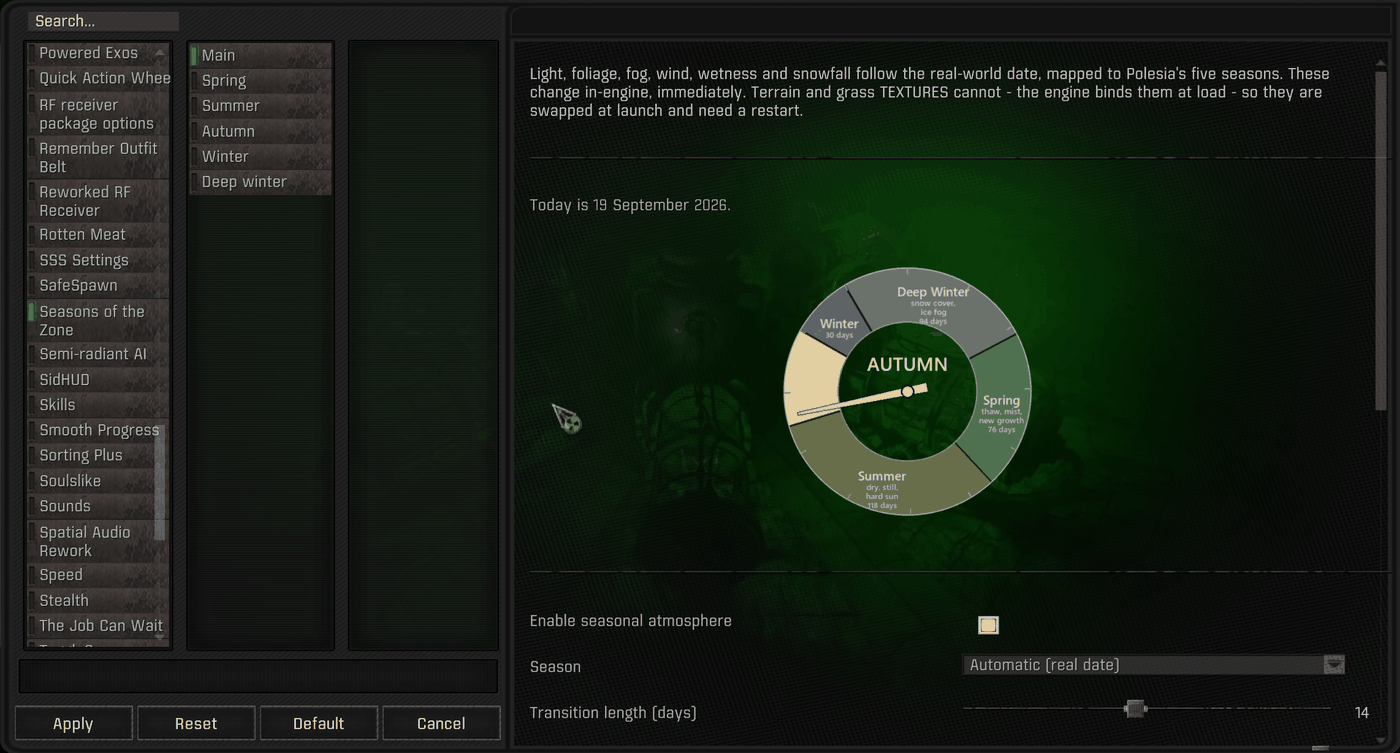
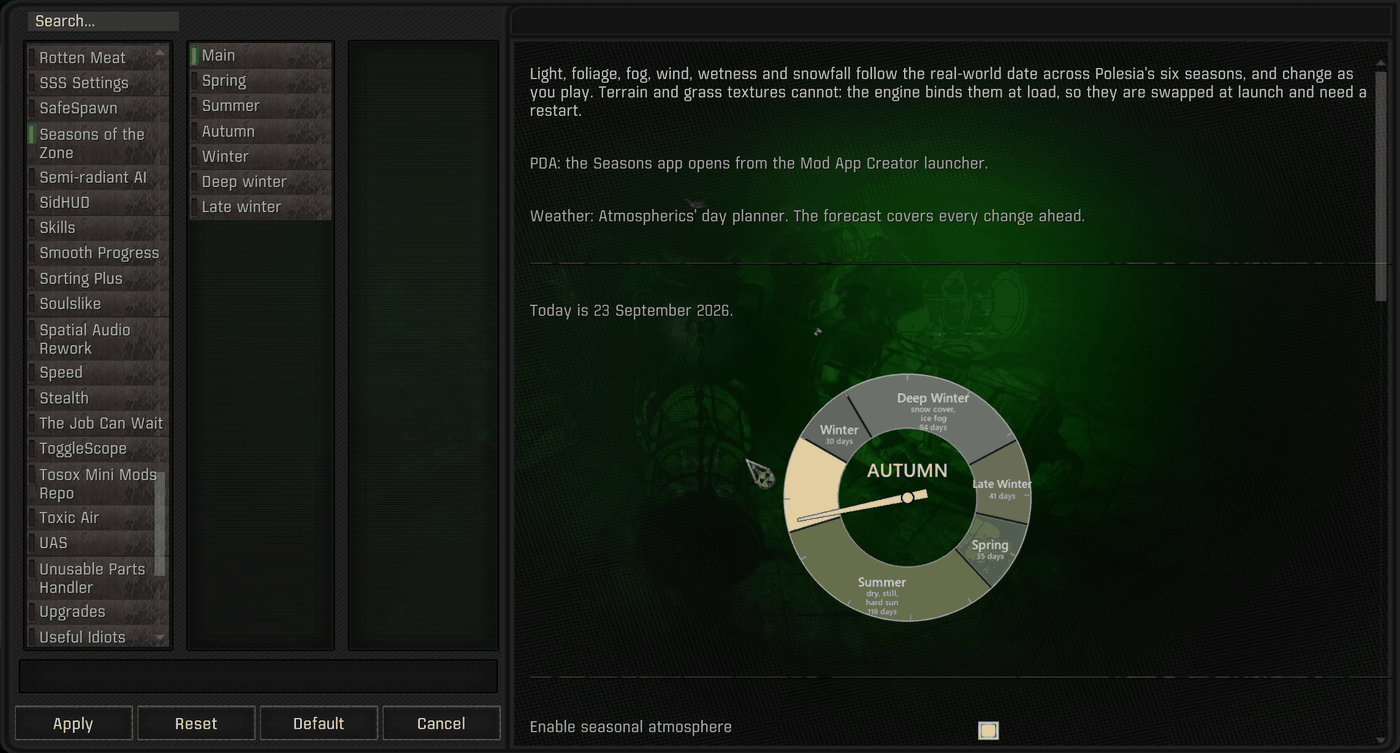
Release 1.8.3
MCM's Main page loaded Atmospherics' level_weathers while MCM was still
building its menus. That load fails, so the page said no weather manager was
found and the log gained "Failed to load script level_weathers". At the main
menu the page now reads the file instead. The units dropdown showed a raw key,
and ("summer,spring") now gets advice to quote each season. The docs show the
MCM pages and The Year with six seasons.

diff --git a/_tools/test_forecast.py b/_tools/test_forecast.py
@@ -8,6 +8,7 @@ Every case below has a negative control - a standing or a manager state that MUS
 produce the tier under test - so a function that returned a constant would be caught.
 """
 import io, sys
+import tempfile
 from lupa import LuaRuntime
 
 import os
@@ -16,6 +17,7 @@ SRC = (os.path.join(os.path.dirname(os.path.dirname(os.path.abspath(__file__))),
        "zzz_seasons_of_the_zone.script"))
 
 HOUR = 3600
+SCRATCH = tempfile.mkdtemp(prefix="sotz_forecast_")
 
 
 def build(standing, surge_left, psi_left, freq=24, psi_freq=48, forecast_on=True,
@@ -23,7 +25,7 @@ def build(standing, surge_left, psi_left, freq=24, psi_freq=48, forecast_on=True
           weather="storm", now_minute=600, have_weather=True, hide_global=False,
           surge_obj_override=None, stock=False, period=6, elapsed_h=1.0,
           in_level=True, planner_globals=None, calls=None, storage=(),
-          occurrence=None, wx_exact=False, tail=None):
+          occurrence=None, wx_exact=False, tail=None, disk=None):
     """A sandbox with the engine bindings the script reaches for.
 
     stock=True builds base Anomaly's weather manager instead of Atmospherics' planner:
@@ -35,9 +37,19 @@ def build(standing, surge_left, psi_left, freq=24, psi_freq=48, forecast_on=True
     was never built from the main menu.
     `tail`, if given, is appended to the script, and whatever it returns is handed back
     as a third value - the way a case reaches the script's file-locals.
+    `disk` is level_weathers.script as MO2 serves it, which is all the main menu reads:
+    its text for a loose copy, None for the base game's packed one, False for none.
     """
     lua = LuaRuntime(unpack_returned_tuples=True)
     g = lua.globals()
+
+    lw_file = os.path.join(SCRATCH, "level_weathers_%d.script" % len(os.listdir(SCRATCH)))
+    if isinstance(disk, str):
+        io.open(lw_file, "w", encoding="utf-8").write(disk)
+    g.getFS = lambda: lua.table_from({
+        "exist": lambda self, alias, name: disk is not False,
+        "update_path": lambda self, alias, name: lw_file,
+    })
 
     # In game, mgr.last_surge_time is a CTime and diffSec(that) returns how long ago it
     # was. Model it as a table carrying its own elapsed value, which is what the real
@@ -513,24 +525,49 @@ def t_stock_window_edges():
     return "window opens at 2/3 of the period, closes at the period, never negative"
 
 
+TRAP = """
+-- Reads of the global level_weathers, counted. In game the first read LOADS the script:
+-- the engine resolves a missing global by loading the file of that name.
+function trap_level_weathers()
+    local stub, touched = rawget(_G, "level_weathers"), {n = 0}
+    rawset(_G, "level_weathers", nil)
+    setmetatable(_G, {__index = function(t, k)
+        if k == "level_weathers" then touched.n = touched.n + 1; return stub end
+    end})
+    return touched
+end
+"""
+
+
 def t_source_from_menu():
-    # MCM is mostly opened from the main menu. There is no actor, and base's getter BUILDS
-    # a manager when none exists - so it must not be called to find out which one this is.
-    for label, kw, want in (
-            ("planner", dict(), "plan"),
-            ("stock", dict(stock=True), "stock"),
-            ("nothing", dict(have_weather=False), "none")):
+    """MCM calls this while it builds its pages, at the main menu. Reading level_weathers
+    there loads it, and Atmospherics 2.69's copy reads MCM as it loads, so the load failed
+    and the page said no weather manager was found. The menu reads the file instead, and
+    must never touch the script, or build a manager, which base's getter does if none
+    exists."""
+    PLANNER = "function record_day_history(weather_type)\nend\n"
+    for label, disk, want in (
+            ("the planner, loose", PLANNER, "plan"),
+            ("another loose copy", "function get_weather_manager()\nend\n", "stock"),
+            ("the base game's, packed", None, "stock"),
+            ("no script at all", False, "none")):
         calls = []
-        _, g = build(standing=0, surge_left=HOUR, psi_left=HOUR, in_level=False,
-                     calls=calls, **kw)
+        lua, g = build(standing=0, surge_left=HOUR, psi_left=HOUR, in_level=False,
+                       calls=calls, disk=disk)
+        lua.execute(TRAP)
+        touched = g.trap_level_weathers()
         got = g.weather_source()
         assert got == want, "%s at the menu read as %r" % (label, got)
+        assert touched.n == 0, "%s: the menu touched level_weathers" % label
         assert calls == [], "%s: built a weather manager from the main menu" % label
-    # the control: in a level the live manager IS read, so the counter above can fire
+    # the control: in a level the live manager IS read, so both counters can fire
     calls = []
-    _, g = build(standing=0, surge_left=HOUR, psi_left=HOUR, stock=True, calls=calls)
+    lua, g = build(standing=0, surge_left=HOUR, psi_left=HOUR, stock=True, calls=calls)
+    lua.execute(TRAP)
+    touched = g.trap_level_weathers()
     assert g.weather_source() == "stock" and calls, "the live read never happened"
-    return "menu tells plan / stock / none apart without ever building a manager"
+    assert touched.n > 0, "the trap never fired, so it proves nothing at the menu"
+    return "menu tells plan / stock / none apart from the file alone"
 
 
 def t_stock_page_text():

diff --git a/_tools/test_mcm_strings.py b/_tools/test_mcm_strings.py
@@ -1,0 +1,120 @@
+"""Every MCM label the mod builds must have a string, or MCM shows the raw key.
+
+The key MCM looks up is built, not written down, so a wrong one looks right in the
+script: a list entry's label is "<option path>_lst_" .. its second field, which makes that
+field a suffix. The units list gave it a full string id there and the dropdown read
+"seasons_zone_main_units_lst_ui_mcm_seasons_zone_units_f" for two releases. This reads
+the shipped MCM script, builds every key the way ui_mcm.script does, and looks each one up
+in the shipped strings.
+
+  python _tools/test_mcm_strings.py
+"""
+import io
+import os
+import re
+import sys
+
+ROOT = os.path.dirname(os.path.dirname(os.path.abspath(__file__)))
+GD = os.path.join(ROOT, "mods", "Seasons of the Zone", "gamedata")
+MCM = os.path.join(GD, "scripts", "zzz_seasons_of_the_zone_mcm.script")
+XML = os.path.join(GD, "configs", "text", "eng", "ui_seasons_of_the_zone.xml")
+
+# widgets MCM draws without a label of their own
+UNLABELLED = {"desc", "line", "image", "slide", "title"}
+
+
+def calls(src):
+    """(page, table text) for every add({...}) with a literal id, and its page function."""
+    pages = [(m.start(), m.group(1)) for m in
+             re.finditer(r"local function page_(\w+)\(", src)]
+    for m in re.finditer(r"add\(\{", src):
+        i, depth = m.end() - 1, 0
+        for j in range(i, len(src)):
+            depth += {"{": 1, "}": -1}.get(src[j], 0)
+            if depth == 0:
+                break
+        body = src[i:j + 1]
+        page = None
+        for pos, name in pages:
+            if pos < m.start():
+                page = name
+        # a literal id only: "mod_" .. m.key is a runtime tick, labeled by the file
+        # season.py generates
+        if re.match(r'\{\s*id\s*=\s*"[^"]+"\s*,', body):
+            yield page, body
+
+
+def keys(src):
+    """(key, what) for every string the MCM pages look up."""
+    out = []
+    for page, body in calls(src):
+        oid = re.match(r'\{\s*id\s*=\s*"([^"]+)"', body).group(1)
+        kind = re.search(r'type\s*=\s*"([^"]+)"', body).group(1)
+        if kind in UNLABELLED:
+            continue
+        hint = re.search(r'hint\s*=\s*"([^"]+)"', body)
+        out.append(("ui_mcm_" + (hint.group(1) if hint else "seasons_zone_" + oid),
+                    "label of %s" % oid))
+        if kind == "list" and "no_str = true" not in body:
+            # only the main page has lists with strings; a season page's path would
+            # carry the season, which this cannot know
+            assert page == "main", "a string list on page_%s - extend this test" % page
+            for value, label in re.findall(r'\{\s*"([^"]*)"\s*,\s*"([^"]*)"\s*\}', body):
+                out.append(("seasons_zone_main_%s_lst_%s" % (oid, label),
+                            "%s entry %r" % (oid, value)))
+    for s in re.findall(r'"([a-z_]+)"', re.search(
+            r"for _, s in ipairs\(\{([^}]*)\}\)", src).group(1)):
+        out.append(("ui_mcm_seasons_zone_page_" + s, "page title %s" % s))
+    out.append(("ui_mcm_seasons_zone_page_main", "page title main"))
+    return out
+
+
+CASES = []
+
+
+def case(fn):
+    CASES.append(fn)
+    return fn
+
+
+def read(p):
+    return io.open(p, encoding="utf-8").read()
+
+
+@case
+def t_every_label_has_a_string():
+    have = set(re.findall(r'<string id="([^"]+)"', read(XML)))
+    want = keys(read(MCM))
+    lists = [k for k, what in want if "_lst_" in k]
+    assert len(lists) >= 9, "found only %d list entries - the parse is broken" % len(lists)
+    missing = ["%s (%s)" % (k, what) for k, what in want if k not in have]
+    assert not missing, "no string for: " + "; ".join(missing)
+    return "%d keys, %d of them list entries, all in the strings" % (len(want), len(lists))
+
+
+@case
+def t_a_full_id_as_a_label_is_caught():
+    """The 1.8.2 units list, rebuilt here: the check has to flag it."""
+    bad = read(MCM).replace('{"fahrenheit", "fahrenheit"}',
+                            '{"fahrenheit", "ui_mcm_seasons_zone_units_f"}')
+    assert bad != read(MCM), "the units list has changed shape - update this case"
+    have = set(re.findall(r'<string id="([^"]+)"', read(XML)))
+    missing = [k for k, _ in keys(bad) if k not in have]
+    assert missing == ["seasons_zone_main_units_lst_ui_mcm_seasons_zone_units_f"], missing
+    return "the old units key is reported"
+
+
+if __name__ == "__main__":
+    print("  checking the MCM strings")
+    bad = 0
+    for fn in CASES:
+        try:
+            print("  PASS  %-34s %s" % (fn.__name__[2:], fn()))
+        except AssertionError as e:
+            bad += 1
+            print("  FAIL  %-34s %s" % (fn.__name__[2:], e))
+        except Exception as e:
+            bad += 1
+            print("  ERROR %-34s %s: %s" % (fn.__name__[2:], type(e).__name__, e))
+    print("\n  %d/%d passed" % (len(CASES) - bad, len(CASES)))
+    sys.exit(1 if bad else 0)

diff --git a/_tools/season.py b/_tools/season.py
@@ -194,7 +194,14 @@ def _validate_config():
                 problems.append(where + " must be a dict with 'seasons' and 'above'")
                 continue
             raw_when = cfg.get("when", cfg.get("seasons"))
-            if isinstance(raw_when, str) or not isinstance(raw_when, (list, tuple)) or not raw_when:
+            if isinstance(raw_when, str) and "," in raw_when:
+                # ("summer,spring") is one name with a comma in it, not two
+                parts = [p.strip() for p in raw_when.split(",") if p.strip()]
+                problems.append(where + ": 'when' is the single name \"%s\". Give each "
+                                "season its own quotes: (%s)"
+                                % (raw_when, ", ".join('"%s"' % p for p in parts)))
+            elif (isinstance(raw_when, str) or not isinstance(raw_when, (list, tuple))
+                    or not raw_when):
                 problems.append(where + ": 'when' must be a tuple of period names - "
                                 "note the trailing comma in a one-element tuple, "
                                 "(\"winter\",) not (\"winter\")")

diff --git a/_tools/test_config_errors.py b/_tools/test_config_errors.py
@@ -84,6 +84,22 @@ def t_a_name_without_quotes_says_to_quote_it():
 
 
 @case
+def t_two_seasons_in_one_string_say_to_split_them():
+    """("summer,spring") is one name with a comma inside. The trailing-comma advice is
+    right for ("winter") and useless here - a user read it and could not find the
+    problem."""
+    cfg = GOOD.replace('("winter", "winter_snow")', '("summer,spring")')
+    rc, out, who = status(cfg)
+    assert rc != 0, "accepted"
+    assert 'Give each season its own quotes: ("summer", "spring")' in out, out
+    assert "trailing comma" not in out, "still gave the trailing-comma advice"
+    # the control: a single name still gets the trailing-comma advice
+    rc, out, _ = status(GOOD.replace('("winter", "winter_snow")', '("winter")'))
+    assert rc != 0 and "trailing comma" in out, out
+    return "split advice for \"summer,spring\"; comma advice kept for (\"winter\")"
+
+
+@case
 def t_a_table_set_twice_is_caught():
     """Valid Python, so only reading the file can find it: the last assignment wins and
     the real table is thrown away without a word."""

diff --git a/CHANGELOG.md b/CHANGELOG.md
@@ -1,5 +1,16 @@
 # Changelog
 
+## 1.8.3 — 2026-09-23
+
+- **Fixed: MCM said no weather manager was found** on installs with Atmospherics 2.69. The
+  Main page loaded Atmospherics' weather script while MCM was still building its menus,
+  which fails there and left "Failed to load script level_weathers" in the log. At the
+  main menu the page now reads the file instead of loading it.
+- **Fixed: the Temperature units dropdown showed a raw key** instead of Celsius and
+  Fahrenheit.
+- When `when` is one name with commas in it, like `("summer,spring")`, `season.py` now
+  says to give each season its own quotes, instead of pointing at a trailing comma.
+
 ## 1.8.2 — 2026-09-23
 
 - **A mistake in `seasons_config.py` is reported in one plain message** with the line at

diff --git a/docs/INTERFACE.md b/docs/INTERFACE.md
@@ -36,7 +36,7 @@ Below the dial:
 - **Intensity** — 0 is GAMMA's stock look, 1 the full season.
 - **Neutral preset (intensity 0)** — which preset the neutral baseline uses.
 
-![Per-layer switches, the launch-time section, and hover help](images/mcm-main-layers.png)
+![Per-layer switches and the launch-time section](images/mcm-main-layers.png)
 
 Then one switch per layer — color and light, foliage, fog, wind, wetness — so a layer you
 would rather tune yourself can be switched off on its own.
@@ -78,7 +78,7 @@ October 2 and November 20. These pull the other way, and the Zone gets loud.
 
 Last come the PDA message settings.
 
-Every option has hover text, as shown above for *Drive wetness*.
+Every option has hover text.
 
 ## A season page
 
